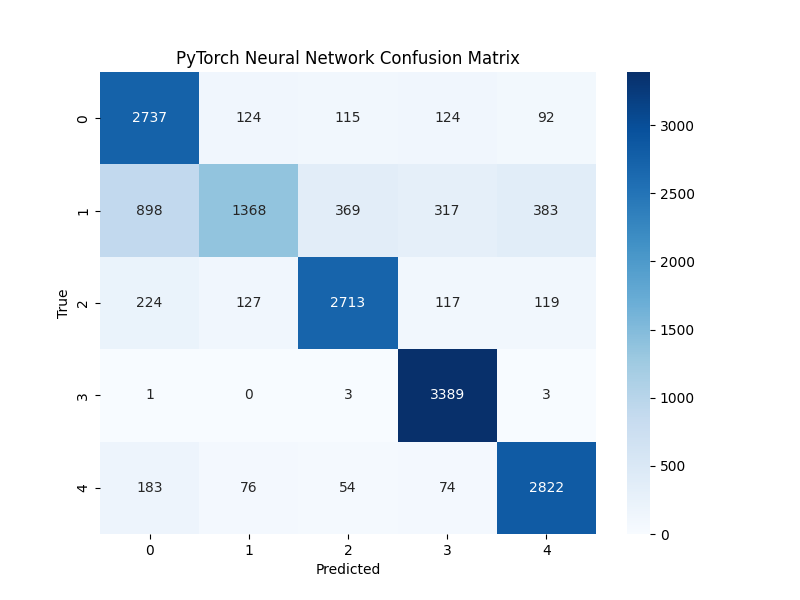
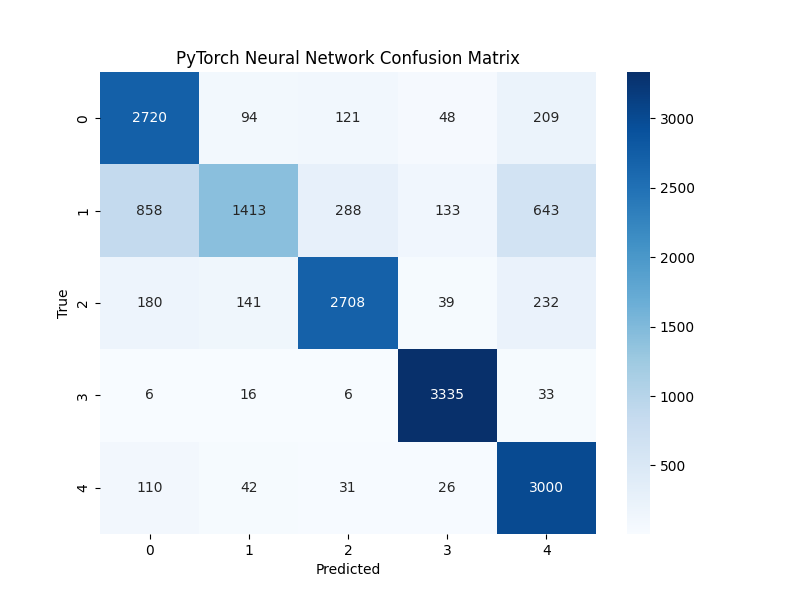
Add Streamlit app for kidney disease risk prediction
- Implemented a user interface using Streamlit to collect patient data.
- Integrated a pre-trained model and scaler for predicting kidney disease risk.
- Added input fields for various health metrics and conditions.
- Included functionality to display prediction results and probability distribution.
- Added necessary model files: labelEncoder.pkl, metadata.pkl, scaler.pkl, and bestModel.pkl.
- Updated performance matrix figure for better visualization.

diff --git a/app/main.py b/app/main.py
@@ -1,0 +1,126 @@
+import streamlit as st
+import pandas as pd
+import joblib
+import numpy as np
+
+model = joblib.load('model/bestModel.pkl')
+scaler = joblib.load('model/scaler.pkl')
+
+features = {
+    "Serum phosphate level": {"type": "number", "min": 0.5, "max": 6.0, "step": 0.1, "default": 3.5},
+    "Random blood glucose level (mg/dl)": {"type": "number", "min": 50, "max": 500, "step": 1, "default": 100},
+    "Duration of diabetes mellitus (years)": {"type": "number", "min": 0, "max": 50, "step": 1, "default": 5},
+    "C-reactive protein (CRP) level": {"type": "number", "min": 0, "max": 10, "step": 0.1, "default": 0.5},
+    "Blood pressure (mm/Hg)": {"type": "number", "min": 70, "max": 200, "step": 1, "default": 120},
+    "Cystatin C level": {"type": "number", "min": 0.5, "max": 2.5, "step": 0.1, "default": 0.8},
+    "Age of the patient": {"type": "number", "min": 18, "max": 100, "step": 1, "default": 50},
+    "Sodium level (mEq/L)": {"type": "number", "min": 120, "max": 160, "step": 0.1, "default": 140},
+    "Body Mass Index (BMI)": {"type": "number", "min": 15, "max": 50, "step": 0.1, "default": 25},
+    "Red blood cell count (millions/cumm)": {"type": "number", "min": 3, "max": 6, "step": 0.1, "default": 4.5},
+    "Urine protein-to-creatinine ratio": {"type": "number", "min": 0, "max": 5, "step": 0.1, "default": 0.2},
+    "Cholesterol level": {"type": "number", "min": 100, "max": 300, "step": 1, "default": 180},
+    "Urine output (ml/day)": {"type": "number", "min": 500, "max": 3000, "step": 100, "default": 1500},
+    "Appetite (good/poor)": {"type": "categorical", "options": ["Good", "Poor"]},
+    "Hypertension (yes/no)": {"type": "categorical", "options": ["No", "Yes"]},
+    "Sugar in urine": {"type": "categorical", "options": ["No", "Yes"]},
+    "Pedal edema (yes/no)": {"type": "categorical", "options": ["No", "Yes"]},
+    "Albumin in urine": {"type": "categorical", "options": ["No", "Yes"]},
+    "Pus cells in urine": {"type": "categorical", "options": ["No", "Yes"]},
+    "Bacteria in urine": {"type": "categorical", "options": ["No", "Yes"]},
+    "Anemia (yes/no)": {"type": "categorical", "options": ["No", "Yes"]},
+    "Red blood cells in urine": {"type": "categorical", "options": ["No", "Yes"]},
+    "Smoking status": {"type": "categorical", "options": ["No", "Yes"]},
+    "Diabetes mellitus (yes/no)": {"type": "categorical", "options": ["No", "Yes"]},
+    "Urinary sediment microscopy results": {"type": "categorical", "options": ["Normal", "Abnormal"]},
+    "Pus cell clumps in urine": {"type": "categorical", "options": ["No", "Yes"]}
+}
+
+def main():
+    st.title("Kidney Disease Risk Prediction")
+    
+    with st.form("patient_form"):
+        inputs = {}
+        cols = st.columns(2)
+        
+        for i, (feature, config) in enumerate(features.items()):
+            with cols[i % 2]:
+                if config["type"] == "number":
+                    inputs[feature] = st.number_input(
+                        label=feature,
+                        min_value=config["min"],
+                        max_value=config["max"],
+                        value=config["default"],
+                        step=config["step"]
+                    )
+                else:
+                    inputs[feature] = st.radio(
+                        label=feature,
+                        options=config["options"]
+                    )
+        
+        submitted = st.form_submit_button("Predict Risk")
+    
+    if submitted:
+        try:
+            input_df = pd.DataFrame([inputs])
+            
+            for feature, config in features.items():
+                if config["type"] == "categorical":
+                    for option in config["options"]:
+                        col_name = f"{feature}_{option}" if len(config["options"]) > 2 else f"{feature}_{option}"
+                        input_df[col_name] = (inputs[feature] == option).astype(int)
+            
+            expected_columns = [
+                "Serum phosphate level", "Random blood glucose level (mg/dl)",
+                "Duration of diabetes mellitus (years)", "C-reactive protein (CRP) level",
+                "Blood pressure (mm/Hg)", "Cystatin C level", "Age of the patient",
+                "Sodium level (mEq/L)", "Body Mass Index (BMI)", 
+                "Red blood cell count (millions/cumm)", "Urine protein-to-creatinine ratio",
+                "Cholesterol level", "Urine output (ml/day)",
+                "Appetite (good/poor)_Good", "Appetite (good/poor)_Poor",
+                "Hypertension (yes/no)_No", "Hypertension (yes/no)_Yes",
+                "Sugar in urine_No", "Sugar in urine_Yes",
+                "Pedal edema (yes/no)_No", "Pedal edema (yes/no)_Yes",
+                "Albumin in urine_No", "Albumin in urine_Yes",
+                "Pus cells in urine_No", "Pus cells in urine_Yes",
+                "Bacteria in urine_No", "Bacteria in urine_Yes",
+                "Anemia (yes/no)_No", "Anemia (yes/no)_Yes",
+                "Red blood cells in urine_No", "Red blood cells in urine_Yes",
+                "Smoking status_No", "Smoking status_Yes",
+                "Diabetes mellitus (yes/no)_No", "Diabetes mellitus (yes/no)_Yes",
+                "Urinary sediment microscopy results_Normal", "Urinary sediment microscopy results_Abnormal",
+                "Pus cell clumps in urine_No", "Pus cell clumps in urine_Yes"
+            ]
+            
+            for col in expected_columns:
+                if col not in input_df.columns:
+                    input_df[col] = 0
+            
+            input_df = input_df[expected_columns]
+            processed_input = scaler.transform(input_df)
+            prediction = model.predict(processed_input)
+            proba = model.predict_proba(processed_input)
+            
+            risk_levels = {
+                0: "No Disease", 
+                1: "Low Risk",
+                2: "Moderate Risk",
+                3: "Severe Disease",
+                4: "High Risk"
+            }
+            
+            st.subheader("Prediction Results")
+            st.metric("Risk Level", f"{prediction[0]} - {risk_levels[prediction[0]]}")
+            
+            st.write("Probability Distribution:")
+            proba_df = pd.DataFrame({
+                "Risk Level": risk_levels.values(),
+                "Probability": proba[0]
+            })
+            st.bar_chart(proba_df.set_index("Risk Level"))
+            
+        except Exception as e:
+            st.error(f"Prediction failed: {str(e)}")
+
+if __name__ == "__main__":
+    main()
